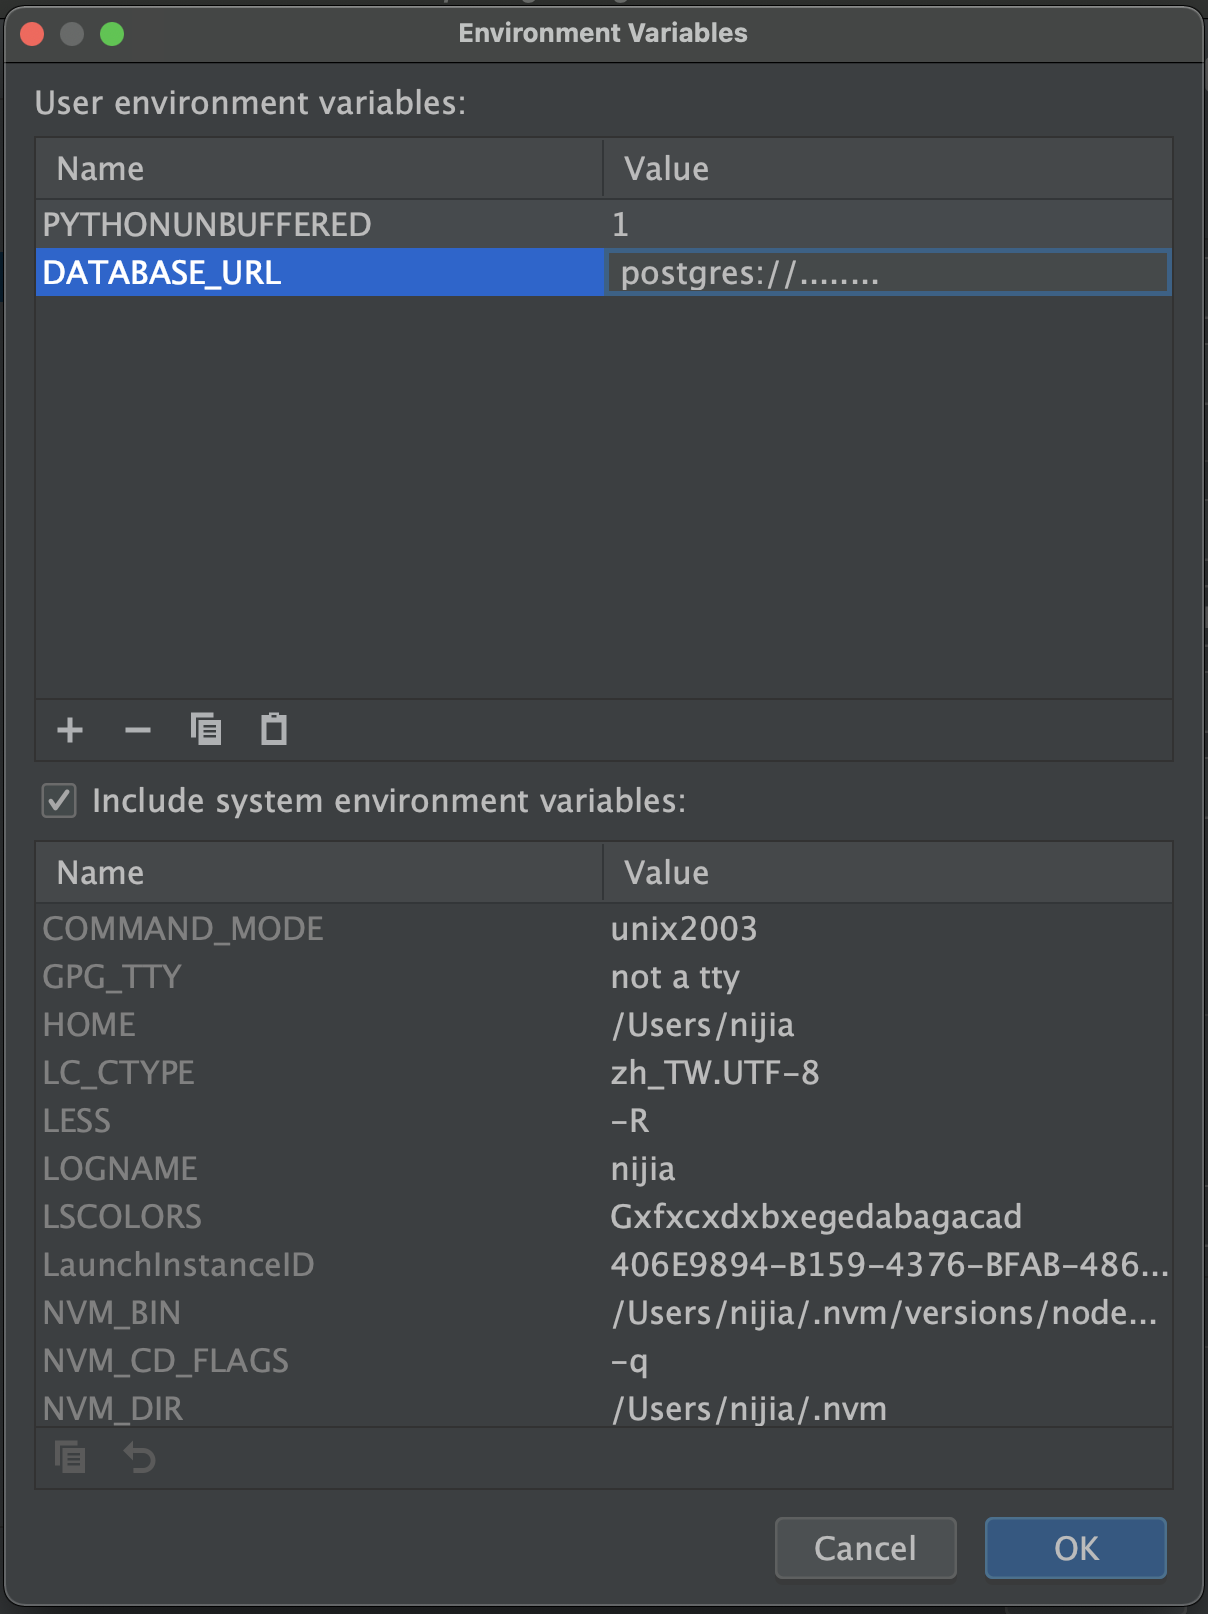
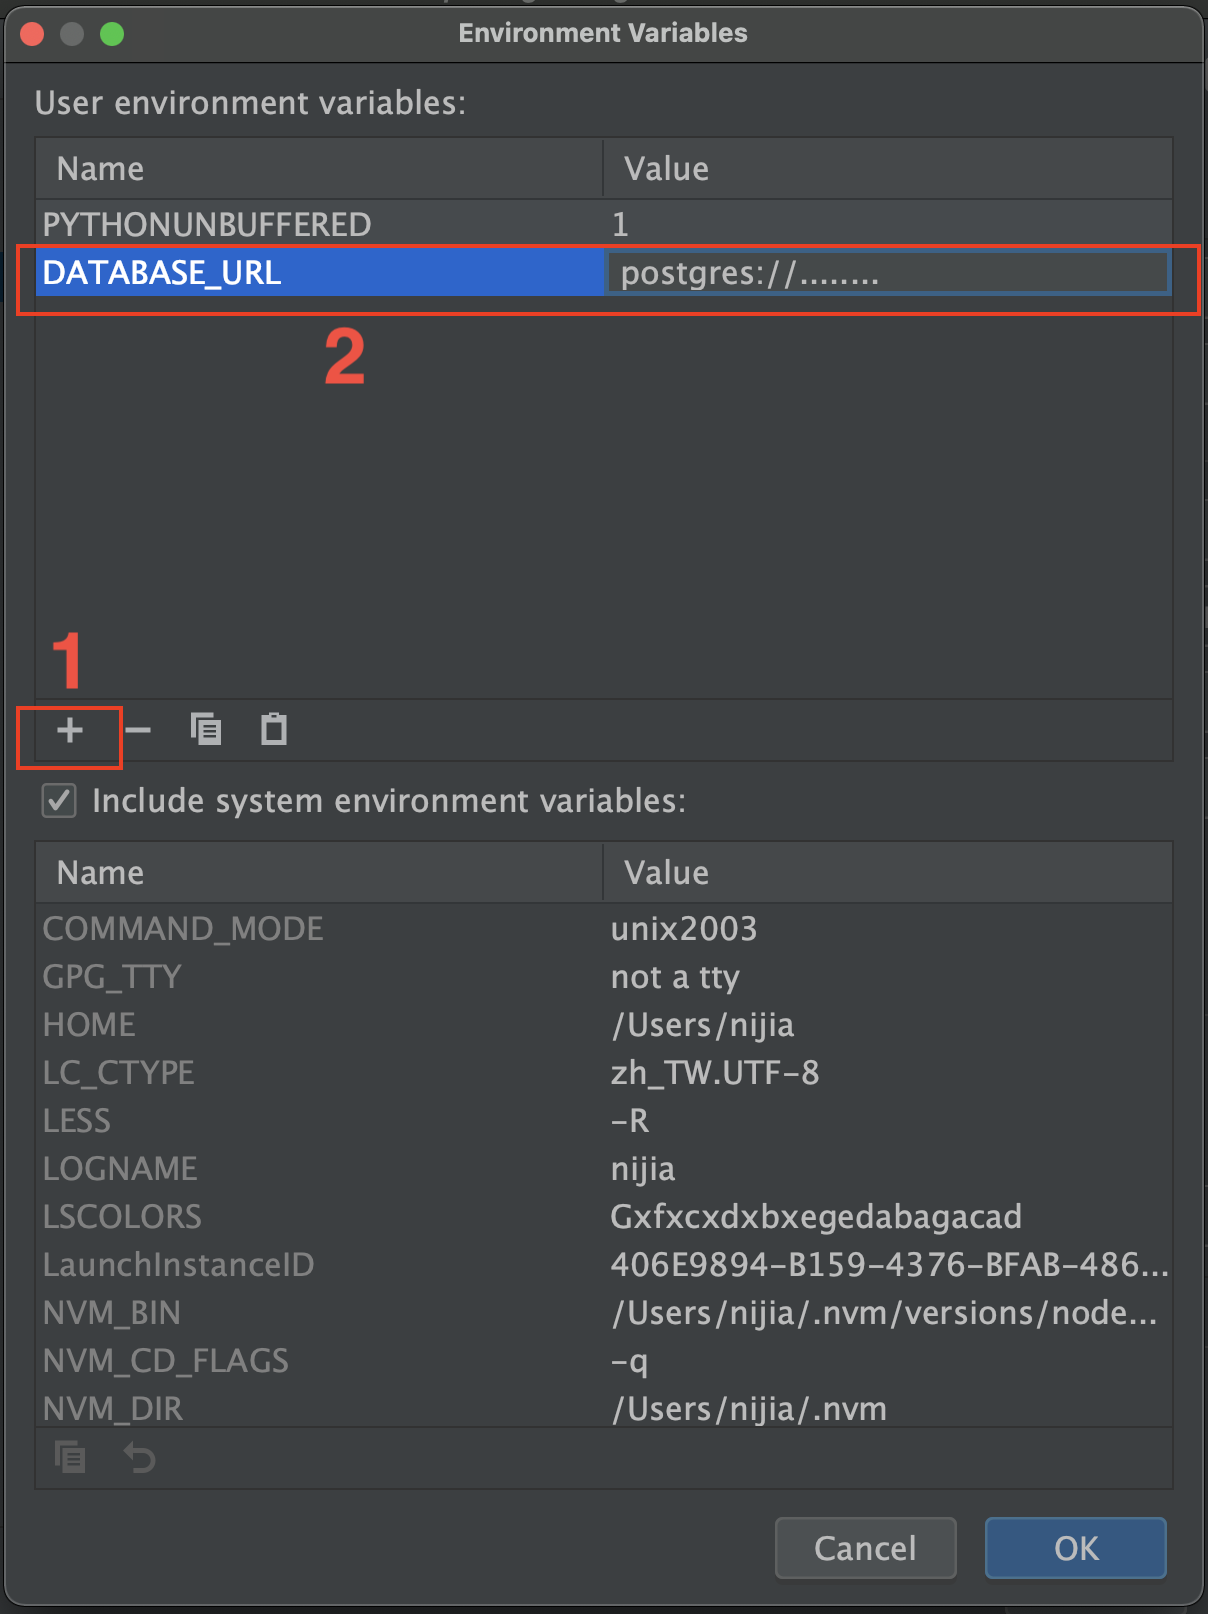
🚀 deploy blog resource

diff --git a/source/_posts/how-to-debug-python-by-pycharm-1.md b/source/_posts/how-to-debug-python-by-pycharm-1.md
@@ -1,0 +1,63 @@
+---
+title: How to debug Python app by Pycharm
+tags:
+  - Python
+  - Pycharm
+categories: Python
+date: 2021-04-28 12:38:44
+---
+
+
+<style>
+  section.compact {
+    font-size: 150%  
+  }
+  img[alt~="center"] {
+    display: block;
+    margin: 0 auto;
+  }
+</style>
+
+I wrote dynamic programming language from working to now. Most of my time also use `print`(Python), `console.log`(JS), `puts`(Ruby) to debug any scripts or web apps. from my before experience, I only know Ruby had `byebug` package which could write a `byebug` line in your code and run it, it will show something information that you could debug in the terminal. 
+
+> This is my first know debug method in dynamic languages ... XD
+
+<!-- more -->
+
+
+In this article, I will take you to know how to debug Python apps by Pycharm which was I learn recently...😆
+
+1. Open your project and click the dropdown button
+
+![](https://nijialin.com/images/2021/debug-python/0.png)
+
+2. Select `Edit Configurations`.
+
+![](https://nijialin.com/images/2021/debug-python/1.png)
+
+3. Click `＋` ➡ Select `Python` ➡ Choose your `script` or `web entrance file` ➡ Set `Environment Variables` if your app needs ➡ `Apply` and `OK`.
+![](https://nijialin.com/images/2021/debug-python/2.png)
+
+4. Click `+` adding a variable, fill the variable key and value column.
+
+![](https://nijialin.com/images/2021/debug-python/4.png)
+
+5. The name would map your task name.
+
+![](https://nijialin.com/images/2021/debug-python/3.png)
+
+6. Finally, you will get a task which like following name `api debug`(It's my task name).
+
+![](https://nijialin.com/images/2021/debug-python/6.png)
+
+7. Put red icon in a line(or two red icon become a scope), Click the `bug button` to start the debug mode🎉
+
+![](https://nijialin.com/images/2021/debug-python/5.png)
+
+8. Then you can see code information(variables, library...) at IDE. 
+
+> If you run web app, you need to give API a action, then debug mode will be trigger.
+
+# Conclusion
+
+This is my first time using debug mode in dynamic languages by Python. Write down my experience when I forgot steps on another day... XD
